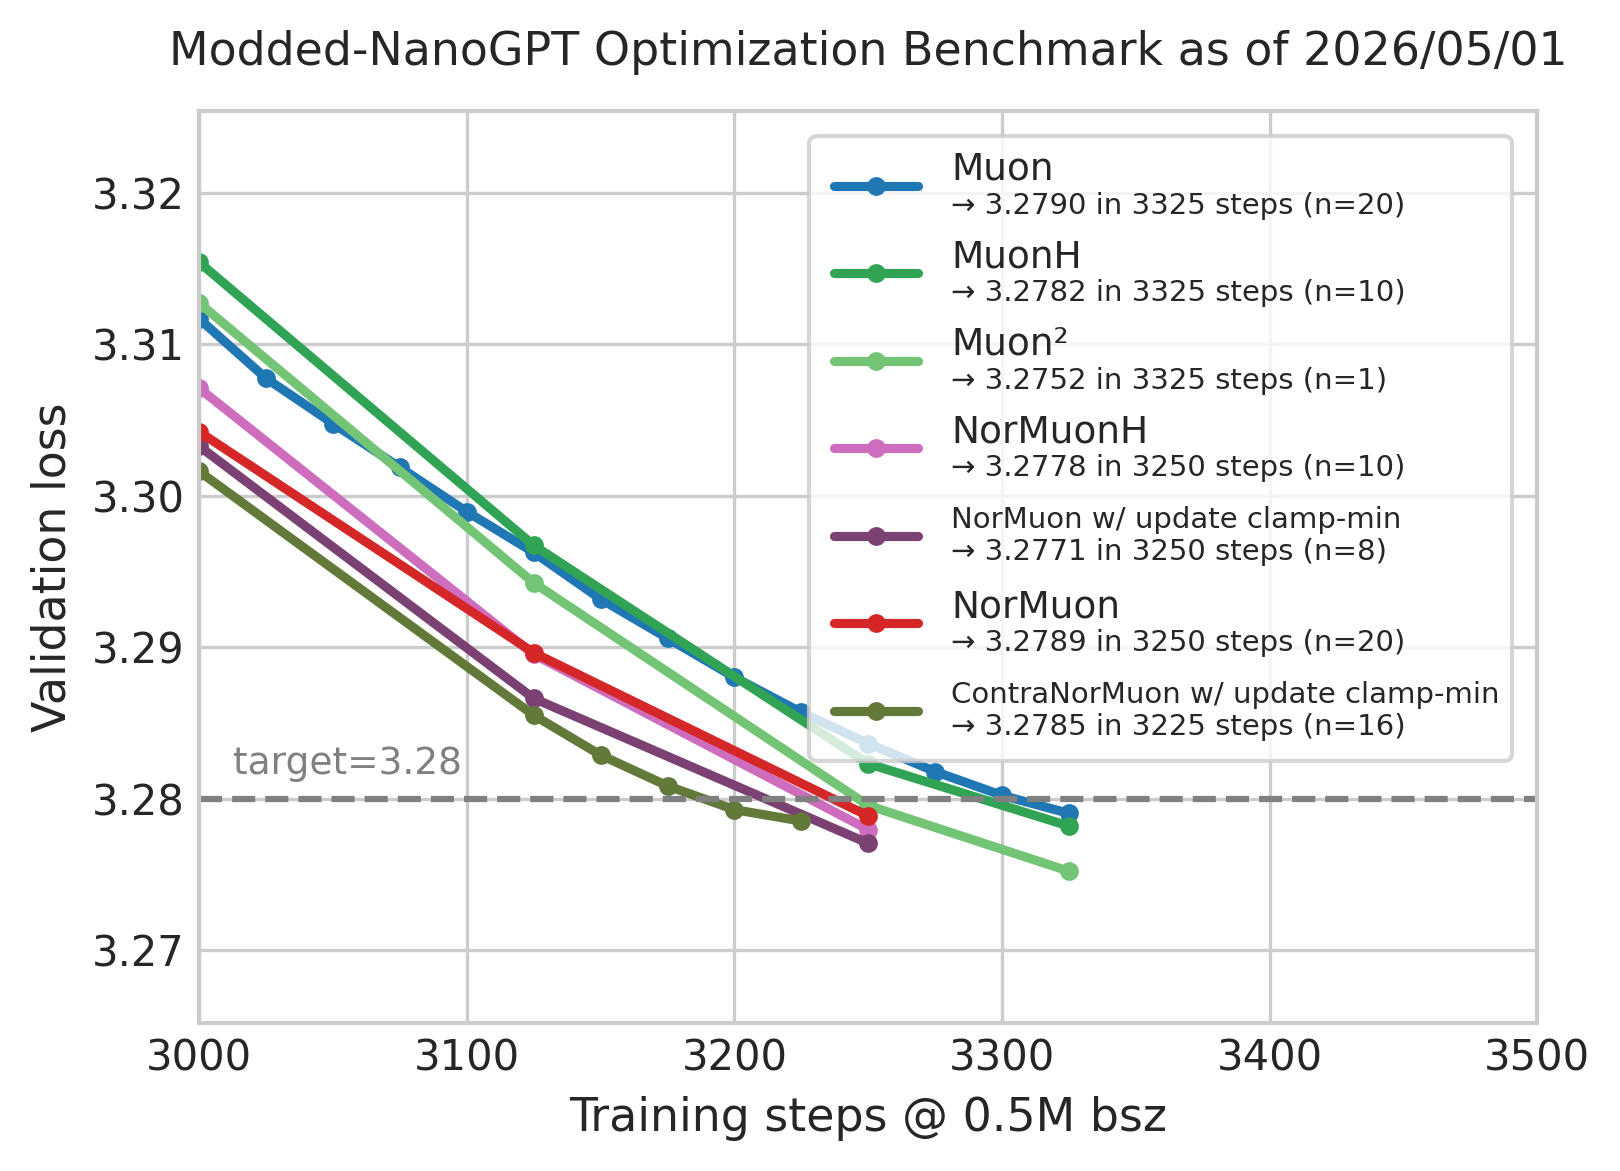
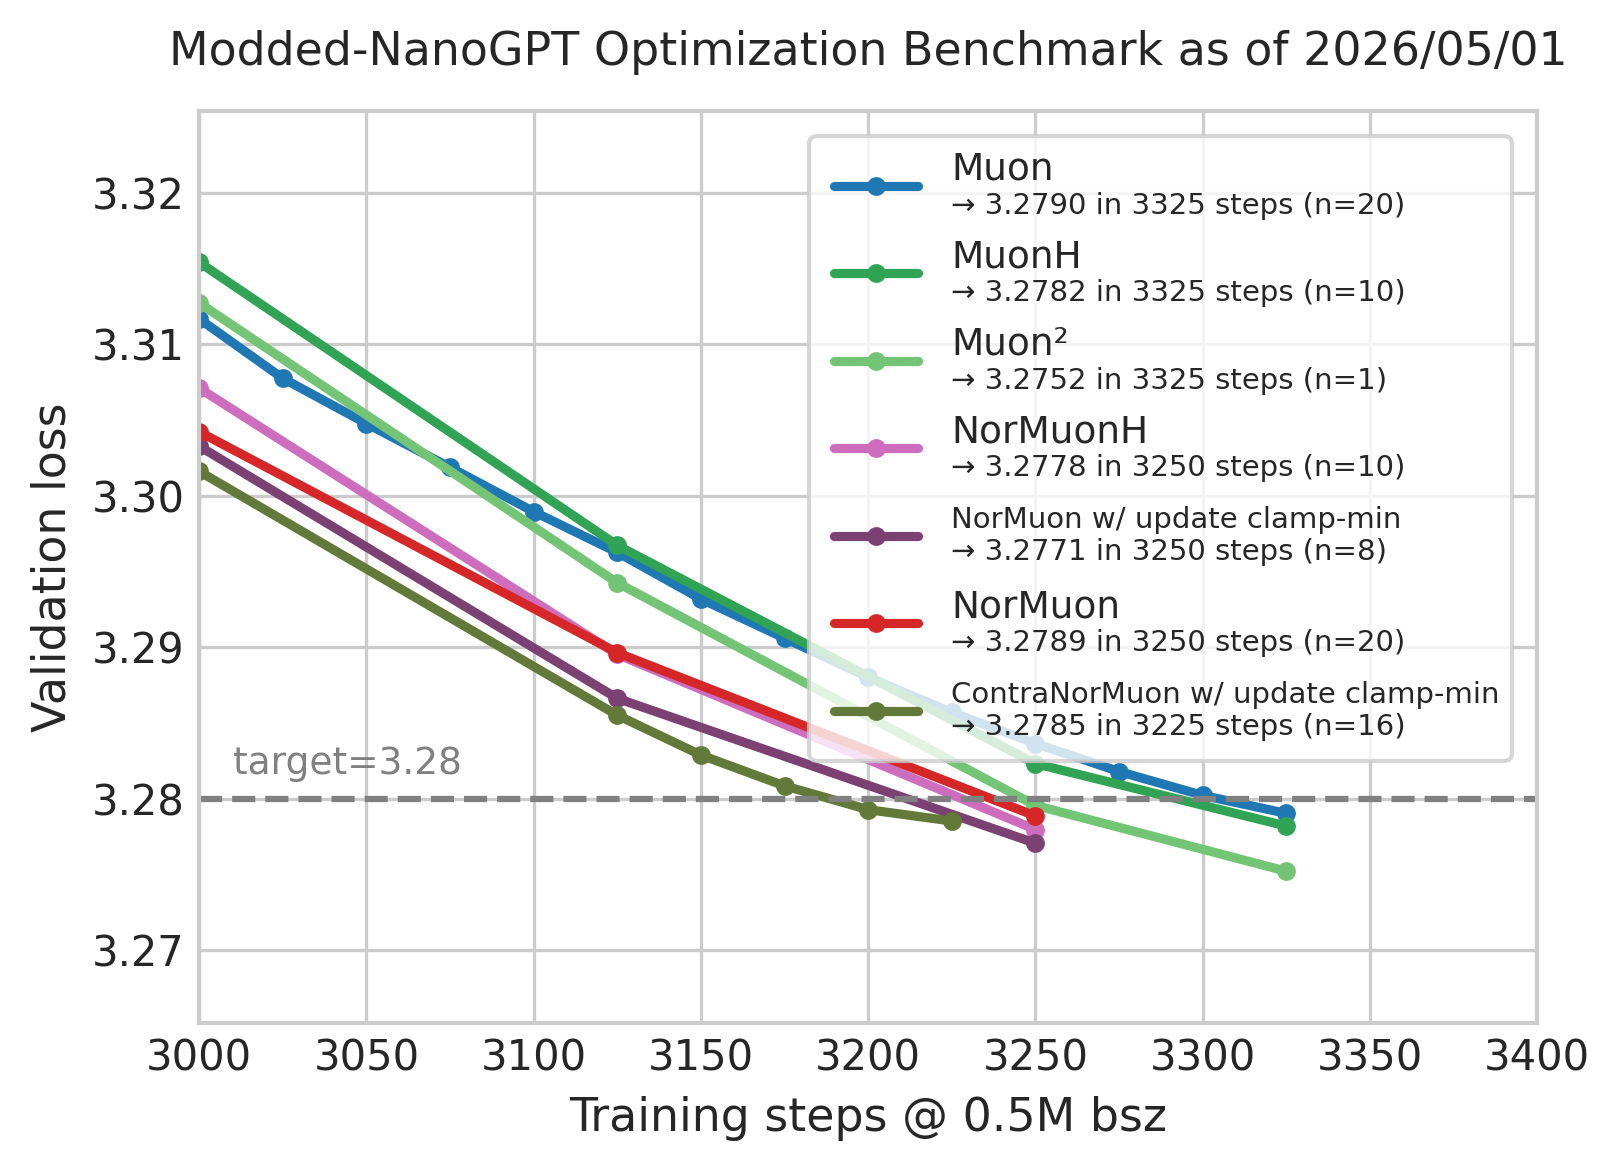
.

diff --git a/records/track_3_optimization/make_figures.py b/records/track_3_optimization/make_figures.py
@@ -196,7 +196,7 @@ fig.savefig('figure.png', bbox_inches='tight')
 
 # Generate zoomed-in figure
 zoom_min_step = 3000
-zoom_max_step = 3500
+zoom_max_step = 3400
 zoom_results = [
     result for result in results.values()
     if result[1] < zoom_max_step
